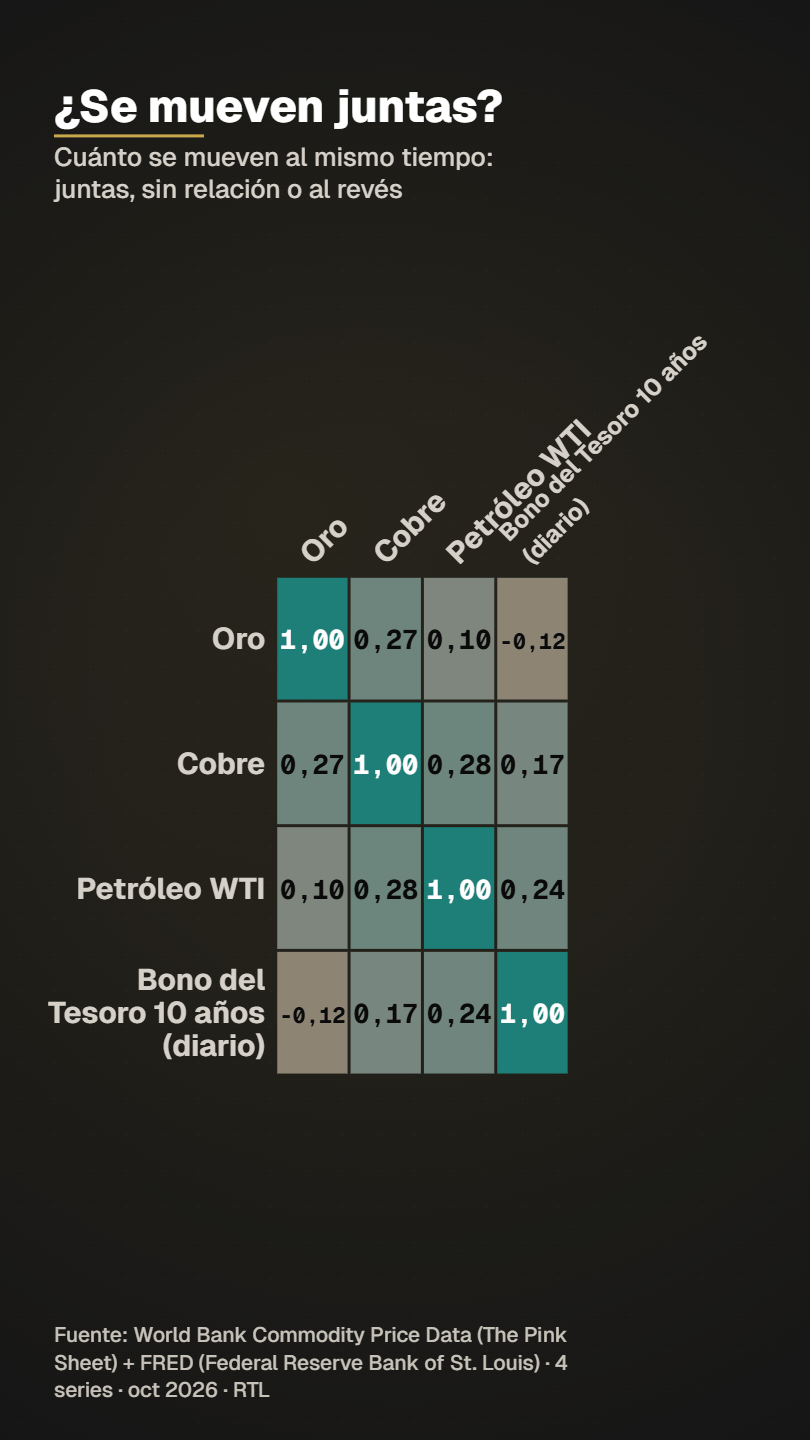
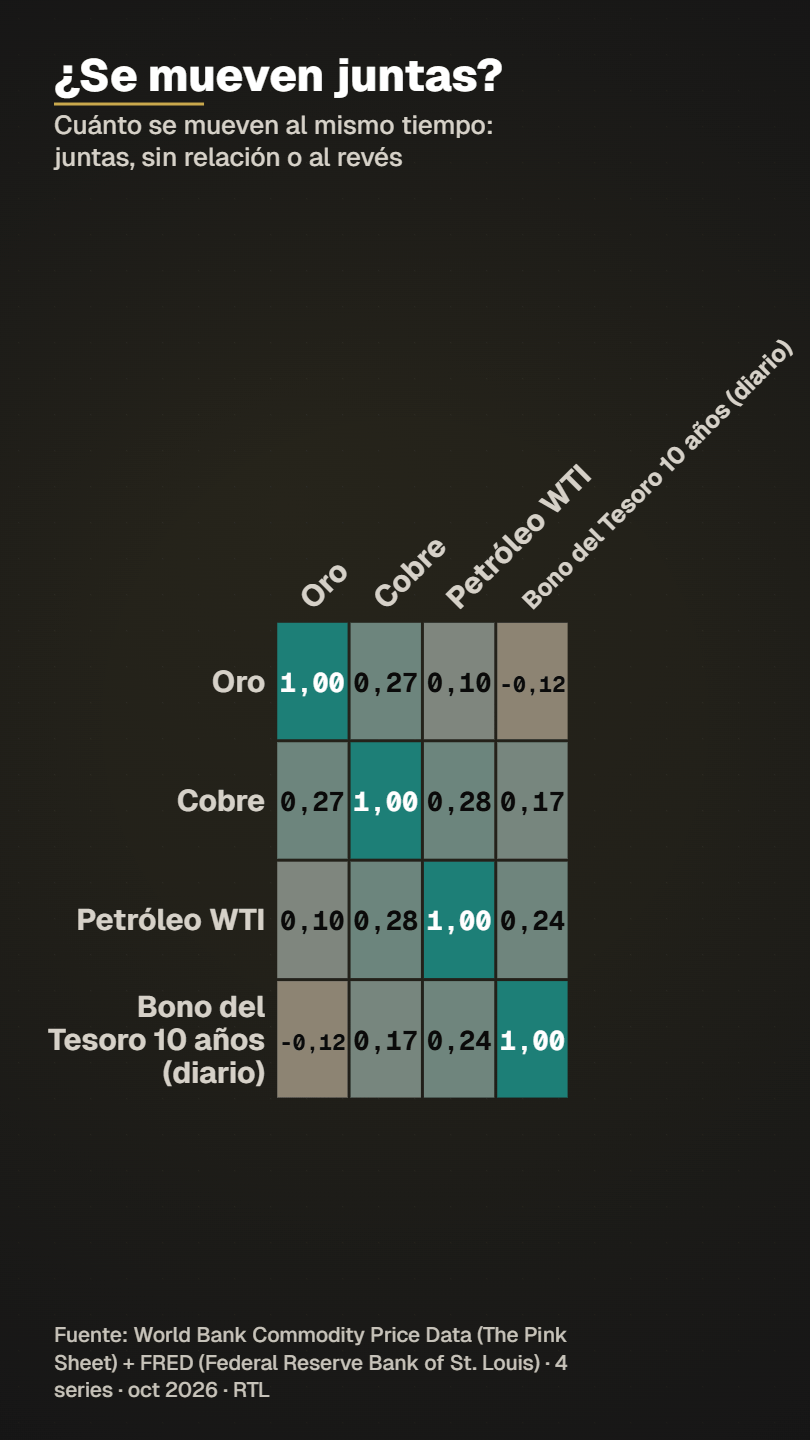
Charts: transposed vertical calendar with numbers, bars-by-decade template, legend/radar/bullet/correlation fixes

diff --git a/motor/capas_extra.js b/motor/capas_extra.js
@@ -122,7 +122,7 @@ function radar(env, capa) {
   const {ctx, u, t, H, W} = env, tab = env.tablas[capa.datos], vert = H > W;
   const B = cajaDef(env, capa), [t0, t1] = capa.t ?? [0.5, 5], ap = aparece(env, capa, t0); if (ap <= 0) return;
   const L = (capa._rd ??= ejesRadar(capa, tab)), N = L.ejes.length;
-  const wLab = B.w * 0.21, lh = tam(env, 26) * 1.18, fila = tam(env, 26) * 1.5, hLista = vert ? N * fila + 18 * u : 0;   // vertical: los rótulos van en una lista numerada debajo (los laterales no caben en la zona segura)
+  const wLab = B.w * 0.21, lh = tam(env, 26) * 1.18, fila = tam(env, 26) * 1.5, rrL = tam(env, 18) * 0.62, LNr = vert ? (capa._rn ??= L.ejes.map((e) => nombreEnLineas(env, e.nombre, B.w - 2 * rrL - med(env, fN(e.v, e.fmt), 26, 800, true) - 40 * u, 26, 700, 2))) : [], offY = LNr.map((_, i) => LNr.slice(0, i).reduce((a, l) => a + (l.length - 1) * tam(env, 26) * 1.1, 0)), hLista = vert ? N * fila + (offY.length ? offY[N - 1] + (LNr[N - 1].length - 1) * tam(env, 26) * 1.1 : 0) + 18 * u : 0;   // vertical: los rótulos van en una lista numerada debajo (los laterales no caben en la zona segura)
   const R = vert ? Math.min(B.w / 2 - 44 * u, (B.h - hLista - 190 * u) / 2) : Math.min(B.w / 2 - wLab, B.h / 2 - lh * 3.3), cx = B.x + B.w / 2, cy = vert ? B.y + 54 * u + R : B.y + B.h / 2, p = prog(t, t0, t1, ease.io2);
   const ang = (i) => -Math.PI / 2 + (i * 2 * Math.PI) / N;
   nota(env, B, capa.nota ?? (L.tabla ? `ESCALA COMÚN DE TODOS LOS EJES: DE 0 A ${fN(L.esc, L.fmt)}.${L.conAnt ? ' LÍNEA PUNTEADA: VALOR ANTERIOR.' : ''}` : 'CADA EJE VA DE 0 (MÍNIMO HISTÓRICO DE ESA SERIE) A 100 (SU MÁXIMO HISTÓRICO). EL PUNTO ES LA ÚLTIMA OBSERVACIÓN.'), capa.id ?? 'radar', ap);
@@ -150,13 +150,13 @@ function radar(env, capa) {
   L.ejes.forEach((e, i) => { const r = R * clamp(e.frac) * ease.out3(p); ctx.fillStyle = acento; ctx.beginPath(); ctx.arc(cx + r * Math.cos(ang(i)), cy + r * Math.sin(ang(i)), 8 * u, 0, 7); ctx.fill(); });
   // rótulos: nombre (hasta 2 líneas) y valor, hacia afuera de cada eje (en vertical: número en la punta y lista debajo)
   if (vert) L.ejes.forEach((e, i) => {
-    const a = ang(i), g = ent(env, t0 + 0.4, i, N), qx = cx + (R + 34 * u) * Math.cos(a), qy = cy + (R + 34 * u) * Math.sin(a), rr = tam(env, 18) * 0.62, y = cy + R + 118 * u + i * fila;
+    const a = ang(i), g = ent(env, t0 + 0.4, i, N), qx = cx + (R + 34 * u) * Math.cos(a), qy = cy + (R + 34 * u) * Math.sin(a), rr = tam(env, 18) * 0.62, y = cy + R + 118 * u + i * fila + offY[i];
     ctx.save(); ctx.globalAlpha *= g; ctx.fillStyle = acento;
     [[qx, qy], [B.x + rr, y - tam(env, 26) * 0.3]].forEach(([x, yy]) => { ctx.beginPath(); ctx.arc(x, yy, rr, 0, 7); ctx.fill(); }); ctx.restore();
     rot(env, String(i + 1), qx, qy + tam(env, 18) * 0.32, 18, 800, PALETA.fondo, 'center', `${capa.id ?? 'radar'}:p${i}`, {mono: true, alpha: g, halo: false});
     rot(env, String(i + 1), B.x + rr, y - tam(env, 26) * 0.3 + tam(env, 18) * 0.32, 18, 800, PALETA.fondo, 'center', `${capa.id ?? 'radar'}:q${i}`, {mono: true, alpha: g, halo: false, reg: false});
     const vt = fN(e.v, e.fmt), wv = med(env, vt, 26, 800, true);
-    rot(env, cortarA(env, e.nombre, B.w - 2 * rr - wv - 40 * u, 26, 700), B.x + 2 * rr + 14 * u, y, 26, 700, PALETA.blanco, 'left', `${capa.id ?? 'radar'}:n${i}`, {alpha: g});
+    LNr[i].forEach((ln, q) => rot(env, ln, B.x + 2 * rr + 14 * u, y + q * tam(env, 26) * 1.1, 26, 700, PALETA.blanco, 'left', `${capa.id ?? 'radar'}:n${i}${q ? ':' + q : ''}`, {alpha: g}));
     rot(env, vt, B.x + B.w, y, 26, 800, acento, 'right', `${capa.id ?? 'radar'}:v${i}`, {mono: true, alpha: g});
   });
   else L.ejes.forEach((e, i) => {
@@ -378,7 +378,24 @@ function calendario(env, capa) {
   const leyH = S * 3.4, wA = med(env, '2000', 18, 700, true) + 14 * u;
   ctx.save(); ctx.globalAlpha *= ap;
   let aviso = '';
-  if (!diario) {
+  if (!diario && vert) {   // VERTICAL: meses en filas y años en columnas, con la cifra en cada casilla (cuántos años caben lo decide el ancho de «−12,3»)
+    const wM = med(env, 'sep', 18, 700, true) + 18 * u, numW = med(env, '−12,3', 18, 700, true) + 10 * u, nAn = Math.max(3, Math.min(12, Math.floor((B.w - wM) / numW))), anios = L.anios.slice(-nAn);
+    if (anios.length < L.anios.length) aviso = ` MOSTRANDO LOS ÚLTIMOS ${anios.length} AÑOS DE ${L.anios.length}.`;
+    const x0 = B.x + wM, cw = (B.w - wM) / anios.length, y0 = B.y + S * 1.6, filaH = Math.min(S * 2.8, (B.h - leyH - S * 2) / 12);
+    nota(env, B, capa.nota ?? `CADA CASILLA ES EL RETORNO DE ESE MES: ÚLTIMO CIERRE DEL MES ÷ ÚLTIMO CIERRE DEL MES ANTERIOR − 1, EN %. COLOR PLENO A ±${fN(lim, {decimales: lim < 10 ? 1 : 0})} %; MÁS ALLÁ SE SATURA.${aviso}${L.rets.get(L.ult)?.parcial ? ' EL ÚLTIMO MES ESTÁ INCOMPLETO.' : ''}`, capa.id ?? 'calendario', ap);
+    anios.forEach((an, c) => rot(env, String(an), x0 + cw * (c + 0.5), B.y + S * 1.1, 18, 700, PALETA.piedraClara, 'center', `${capa.id ?? 'calendario'}:a${an}`, {mono: true, tipo: 'eje-x'}));
+    for (let m = 0; m < 12; m++) {
+      const y = y0 + m * filaH, g = ent(env, t0 + 0.2, m, 12); rot(env, MES3[m], B.x + wM - 12 * u, y + filaH * 0.64, 18, 600, PALETA.piedraOscura, 'right', `${capa.id ?? 'calendario'}:m${m}`, {mono: true, tipo: 'eje-y', alpha: g});
+      anios.forEach((an, c) => {
+        const q = L.rets.get(an * 12 + m), g2 = clamp(p * 1.6 - (c * 12 + m) / (anios.length * 12) * 0.6); if (g2 <= 0) return;
+        ctx.globalAlpha = ap * g2; ctx.fillStyle = q ? colorRet(q.r, lim) : rgba(PALETA.tarjeta, 0.5); ctx.fillRect(x0 + c * cw + 1.5 * u, y + 1.5 * u, cw - 3 * u, filaH - 3 * u);
+        if (q && q.parcial) { ctx.strokeStyle = PALETA.blanco; ctx.setLineDash([5 * u, 4 * u]); ctx.lineWidth = 2 * u; ctx.strokeRect(x0 + c * cw + 2 * u, y + 2 * u, cw - 4 * u, filaH - 4 * u); ctx.setLineDash([]); }
+        ctx.globalAlpha = ap;
+        if (q) rot(env, fN(q.r, {decimales: 1}).replace('-', '−'), x0 + (c + 0.5) * cw, y + filaH * 0.66, 18, 700, tintaSobre(colorRet(q.r, lim)), 'center', `${capa.id ?? 'calendario'}:c${an}-${m}`, {mono: true, alpha: g2, halo: false});
+      });
+    }
+    leyenda(env, B, capa, lim, B.y + B.h - leyH * 0.6, ap);
+  } else if (!diario) {
     const filaH = Math.max(S * 1.5, Math.min(S * 2.2, (B.h - leyH - S * 2) / Math.max(1, L.anios.length))), cap = Math.max(3, Math.floor((B.h - leyH - S * 2) / filaH)), anios = L.anios.slice(-cap);
     if (anios.length < L.anios.length) aviso = ` MOSTRANDO LOS ÚLTIMOS ${anios.length} AÑOS DE ${L.anios.length}.`;
     const x0 = B.x + wA, cw = (B.w - wA) / 12, y0 = B.y + S * 1.6, mostrarNum = med(env, '−12,3', 18, 700, true) < cw - 6 * u;
@@ -466,11 +483,11 @@ function bullet(env, capa) {
   const {ctx, u, t, H, W} = env, tab = env.tablas[capa.datos], vert = H > W;
   const B = cajaDef(env, capa), [t0, t1] = capa.t ?? [0.5, 5], ap = aparece(env, capa, t0); if (ap <= 0) return;
   const L = (capa._bl ??= armarBullet(capa, tab)), n = L.length, S = tam(env, 18), N = tam(env, 26), p = prog(t, t0, t1, ease.io2);
-  const lhB = tam(env, 26) * 1.12, LNB = (capa._bn ??= L.map((r) => nombreEnLineas(env, r.nombre, B.w - med(env, fN(r.v, r.fmt), 28, 800, true) - 20 * u, 26, 700, 2))), extB = Math.max(...LNB.map((l) => l.length)) - 1, fila = Math.min((B.h - S * 0.5) / n, N * 7 + extB * lhB), bh = Math.max(26 * u, N * 1.0);
+  const lhB = tam(env, 26) * 1.12, LNB = (capa._bn ??= L.map((r) => nombreEnLineas(env, r.nombre, B.w - med(env, fN(r.v, r.fmt), 28, 800, true) - 20 * u, 26, 700, 2))), extB = Math.max(...LNB.map((l) => l.length)) - 1, fila = Math.min((B.h - S * 0.5) / n, N * 7 + extB * lhB), oy = vert ? Math.max(0, (B.h - S * 0.5 - fila * n) / 2) : 0, bh = Math.max(26 * u, N * 1.0);   // vertical: el bloque de medidores se centra en su caja en vez de pegarse arriba
   nota(env, B, capa.nota ?? 'BARRA: ÚLTIMO DATO. FONDO: HISTORIA DE LA SERIE EN TRES TRAMOS (MÍNIMO–P25, P25–P75, P75–MÁXIMO). RAYA BLANCA: LA META. LA ESCALA ARRANCA EN 0.', capa.id ?? 'bullet', ap);
   ctx.save(); ctx.globalAlpha *= ap;
   L.forEach((r, i) => {
-    const y = B.y + i * fila, g = clamp(p * (n + 1) - i * 0.7), e = ease.out3(g); if (g <= 0) return;
+    const y = B.y + oy + i * fila, g = clamp(p * (n + 1) - i * 0.7), e = ease.out3(g); if (g <= 0) return;
     const lo = Math.min(0, r.min), hi = Math.max(r.max, r.v, r.meta), px = (v) => B.x + ((v - lo) / (hi - lo)) * B.w, yb = y + N * 1.5 + (LNB[i].length - 1) * lhB, c = acento_(capa);
     const vTxt = fN(r.v, r.fmt), wv = med(env, vTxt, 28, 800, true);
     LNB[i].forEach((ln, k) => rot(env, ln, B.x, y + N * 0.95 + k * lhB, 26, 700, PALETA.blanco, 'left', `${capa.id ?? 'bullet'}:n${i}:${k}`, {alpha: g}));

diff --git a/motor/capas.js b/motor/capas.js
@@ -303,6 +303,10 @@ function barras(env, capa) {
   const horiz = capa.orientacion ? capa.orientacion === 'h' : (vert && n > 3);   // en vertical (celular) las barras van acostadas: los nombres se leen enteros
   let orden = [...Array(n).keys()];
   if (capa.orden === 'desc') orden.sort((a, b) => (tab.series[idxs[0]].y[b] ?? -Infinity) - (tab.series[idxs[0]].y[a] ?? -Infinity));
+  if (capa.cadaAnios && tab.tipoX === 'fecha') {   // una barra por década (o cada N años): solo filas REALES cuyo año es múltiplo de N, más la primera y el último dato (nada se interpola)
+    const an = (k) => +fmtFecha(tab.x[k], 'anio'), N = capa.cadaAnios;
+    orden = orden.filter((k) => an(k) % N === 0 || k === 0 || k === n - 1);
+  }
   if (capa.maxBarras) orden = orden.slice(0, capa.maxBarras);
   let lo = 0, hi = -Infinity;
   for (const i of idxs) for (const k of orden) { const v = tab.series[i].y[k]; if (v != null) { lo = Math.min(lo, v); hi = Math.max(hi, v); } }
@@ -469,7 +473,7 @@ function calor(env, capa) {
   const ap = aparece(env, capa, t0); if (ap <= 0) return;
   const m = M.etiquetas.length, vert = env.H > env.W;
   ctx.font = fnt(700, 22 * u); const LW = Math.min(B.w * (vert ? 0.44 : 0.36), Math.max(...M.etiquetas.map((e) => ctx.measureText(e).width)) + 24 * u);
-  const cabeza = (vert ? 250 : 120) * u, side = Math.min(B.w - LW, B.h - cabeza) * 0.98, c = side / m, ch = vert ? Math.min(c * 1.7, (B.h - cabeza) * 0.98 / m) : c;   // en vertical las casillas son más altas que anchas: llenan el lienzo
+  const cabeza = (vert ? 310 : 120) * u, side = Math.min(B.w - LW, B.h - cabeza) * 0.98, c = side / m, ch = vert ? Math.min(c * 1.7, (B.h - cabeza) * 0.98 / m) : c;   // en vertical las casillas son más altas que anchas: llenan el lienzo
   const ox = B.x + LW, oy = B.y + cabeza;
   const col = (v) => colorDivergente(clamp(v, -1, 1));   // BrBG vendorizado (motor/escalas.js): el cero ya no se confunde con el fondo y distingue negativo/positivo un daltónico
   ctx.save(); ctx.globalAlpha = ap;
@@ -1046,14 +1050,15 @@ function filaLeyenda(env, capa, f, x, y, rh, lw, la, idBase) {
   ctx.save(); ctx.globalAlpha *= la;
   ctx.fillStyle = f.col; ctx.beginPath(); ctx.arc(x + 12 * u, y + rh * 0.36, 9 * u, 0, 7); ctx.fill();
   ctx.font = fP; const wP = ctx.measureText(pctTxt(f.pct)).width;
-  ctx.font = fN; const nombre = cortar(ctx, f.nombre, lw - 44 * u - wP - 16 * u), wN = ctx.measureText(nombre).width;
+  ctx.font = fN; const bajoP = ctx.measureText(f.nombre).width > lw - 44 * u - wP - 16 * u && ctx.measureText(f.nombre).width <= lw - 44 * u, yP = bajoP ? 0.84 : 0.5;   // nombre largo: el % baja a la fila de la cifra y el nombre usa todo el ancho (nunca «…» si así cabe)
+  const nombre = cortar(ctx, f.nombre, bajoP ? lw - 44 * u : lw - 44 * u - wP - 16 * u), wN = ctx.measureText(nombre).width;
   rotulo(ctx, nombre, x + 36 * u, y + rh * 0.43, fN, PALETA.blanco, 'left', u);
   rotulo(ctx, fmtNum(f.valor, idBase.fmt), x + 36 * u, y + rh * 0.84, fV, PALETA.piedraClara, 'left', u);
-  rotulo(ctx, pctTxt(f.pct), x + lw, y + rh * 0.5, fP, f.col, 'right', u);
+  rotulo(ctx, pctTxt(f.pct), x + lw, y + rh * yP, fP, f.col, 'right', u);
   ctx.font = fV; const wV = ctx.measureText(fmtNum(f.valor, idBase.fmt)).width;
   reg(env, 'etiqueta', [x + 36 * u, y + rh * 0.43 - 34 * u, x + 36 * u + wN, y + rh * 0.43 + 8 * u], `${capa.id ?? idBase.id}:n:${f.nombre}`);
   reg(env, 'etiqueta', [x + 36 * u, y + rh * 0.84 - 26 * u, x + 36 * u + wV, y + rh * 0.84 + 6 * u], `${capa.id ?? idBase.id}:v:${f.nombre}`);
-  reg(env, 'etiqueta', [x + lw - wP, y + rh * 0.5 - 34 * u, x + lw, y + rh * 0.5 + 8 * u], `${capa.id ?? idBase.id}:p:${f.nombre}`);
+  reg(env, 'etiqueta', [x + lw - wP, y + rh * yP - 34 * u, x + lw, y + rh * yP + 8 * u], `${capa.id ?? idBase.id}:p:${f.nombre}`);
   ctx.restore();
 }
 

diff --git a/CLAUDE.md b/CLAUDE.md
@@ -18,6 +18,8 @@ Herramienta local para animar gráficas de datos. Lee `servidor/guia-de-direccio
 
 ## Aprendizajes
 
+- **2026-11-05 — Segunda pasada visual (subtítulos, Sankey, calendario vertical, barras por década):** (1) un subtítulo que se corta con «…» se arregla envolviéndolo por palabras, pero entonces el bloque de título crece y pisa al contador/gráfica: en vertical el bloque SUBE lo que crece (`dy` en `cajaTitulo`), no se baja el contador (eso chocaba con la nota de unidad de la gráfica); (2) `fnt()`/`escalarFuente` SUBE cualquier tamaño al piso del formato, así que «achicar la fuente hasta que quepa» no funciona en vertical: la salida es envolver, bajar un elemento a otra fila (el % de la leyenda baja a la fila de la cifra) o ampliar la caja; (3) un rótulo que SIEMPRE cae sobre datos (nodos centrales del Sankey, ÚLTIMO del histograma) se resuelve con una placa del color del fondo detrás, no moviéndolo; (4) `prueba-calidad` clasificaba como «nombre» (piso 40 px) cualquier línea corta sin cifras, incluidas las líneas del subtítulo: ahora lo del bloque de título (27 % superior en vertical) cuenta como subtítulo; (5) el calendario vertical sin cifras se arregló TRASPONIENDO (meses en filas, años en columnas, los que quepan con «−12,3»). Serie anual con tendencia: `barras_decada` (solo filas reales, sin interpolar). GOTCHA de entorno: los scripts Python escritos con heredoc y `
+` dentro de cadenas JS dejan saltos de línea reales; editar archivos con la herramienta Edit. **Por qué importa:** cada arreglo de texto desplaza otra cosa; verificar siempre con `prueba-calidad` y mirando el fotograma vertical completo. Diario: `docs/diagnosticos/2026-11-05-noche.md`.
 - **2026-11-05 — Pase visual nocturno (hojas de contactos + capas `capas.js`/`capas_extra.js`):** mirar la galería en HOJAS (`python scripts/hoja-contactos.py`) caza lo que los tests no ven: nombres con «…» en vertical, filas que ocupan el 60 % del alto, barras más cerca de la etiqueta de la fila siguiente que de la suya. Arreglos: `nombreEnLineas` (2-3 líneas, nunca «…») en cascada/pictograma/bullet, filas con alto variable en la cascada vertical, `holg` (más aire con ≤6 filas) en dumbbell, `fila` proporcional al lienzo en carrera, ranking con filas según alto disponible. GOTCHA: `escalarFuente` sube el piso en vertical, así que una 2.ª línea mide ~52 px, no 29; y regenerar la galería re-descarga datos (revertir `examples/*/data.csv` si solo cambia la fecha). **Por qué importa:** un truncado con «…» o un hueco grande es un defecto que ninguna prueba de colisión detecta. Diario: `docs/diagnosticos/2026-11-05-noche.md`.
 - **2026-11-04 — Ampliación de datos (4.480 series; `servidor/ampliacion.mjs` + `servidor/fuentes_extra.mjs` + `data/`):** las fuentes abiertas mienten en detalles que solo se ven contrastando con una consulta independiente (`node scripts/prueba-datos-nuevos.mjs --doc` → `docs/data-verification.md`). GOTCHAS: (1) Grecia es `EL` en Eurostat y un `geo` desconocido NO da error: devuelve muchos países (el adaptador lo rechaza); (2) el IPCA de la zona euro (`EA`/`EA20`) termina en 2025-12; (3) FiscalData publica DOS filas con el mismo `record_date` cuando corrige una tasa de cambio a mitad de trimestre → la fecha de la serie es `effective_date`; (4) NOAA marca los meses interpolados con `sdev` negativa y en la era Scripps (1958–1974) no distingue medido de interpolado → se omite todo; (5) la ANH escribe barriles como texto con comas de miles (`"25,866.00"`): se suma en centésimas enteras; (6) los códigos de FRED no son los del BLS (`USCONS` = `CES2000000001`) y un id inexistente devuelve HTML. **Por qué importa:** cada fuente nueva necesita su prueba contra la fuente oficial por otro camino; una serie que baja "sin error" no está verificada.
 - **2026-11-04 — Licencias: «CC BY 4.0 del Banco Mundial» no cubre todo WDI, y la instantánea `data/` solo lleva lo redistribuible:** muchos indicadores WDI republican datos del FMI (IFS), IEA, OMS, UNESCO, UIT, OMC o la Federación Mundial de Bolsas con términos propios, y la API no expone licencia por indicador. `scripts/actualizar-instantanea.mjs` deja fuera los de esas fuentes primarias (mira la PRIMERA organización de `sourceOrganization`), el FMI, Yahoo, Coin Metrics (NC), CC BY-SA (TRM, ANH) y FRED de editores privados, y lo registra en `data/MANIFEST.json`. `servidor/datos.mjs` cae a `data/<id>.csv` si falta `datos/biblioteca/<id>.csv` (procedencia desde el manifiesto; un archivo propio con el mismo nombre NO la hereda). **Por qué importa:** los ejemplos con Bitcoin (Coin Metrics) o deuda del FMI no corren desde la instantánea por licencia, no por descuido.

diff --git a/docs/diagnosticos/2026-11-05-noche.md b/docs/diagnosticos/2026-11-05-noche.md
@@ -27,3 +27,5 @@ y comparando con las referencias de `docs/STYLE_REFERENCES.md`. Cada arreglo se 
 - Rechazado/pendiente: Sankey horizontal (etiquetas sobre cintas) y traducción SEC: requieren más trabajo; ver tabla.
 
 - Commit 2 (segunda pasada): Sankey horizontal (placa del color del fondo tras los rótulos de nodos centrales: ya no se pierden sobre las cintas), correlación vertical (casillas más altas, rótulos en 3 líneas, encabezado inclinado en 2 líneas), subtítulo de TODAS las piezas envuelto por palabras (2-3 líneas) en vez de «…» (el bloque de título sube y el contador no se pisa), lollipop horizontal (nombre a la izquierda y palo a la derecha en una fila: fuentes completas), pendiente (nombres en 2-3 líneas, más alto/ancho), histograma/retornos (la raya de la mediana ya no cruza el rótulo ÚLTIMO). Auditor: las líneas del subtítulo (rol «sub» 34 px) ya no se cuentan como nombres. Imágenes antes/después: `docs/gallery/before/n2-*.png`. Panel: ya llenaba bien el lienzo, sin cambio.
+
+- Commit 3: calendario vertical transpuesto (meses en filas, años en columnas) con la cifra en cada casilla; `barras_decada` (barras por década para series anuales con tendencia, p. ej. urbanización de Colombia; regla del visualizador + plantilla + caso de galería + prueba); leyendas de donut/waffle (el % baja a la fila de la cifra cuando el nombre es largo: «Tecnología e infraestructura» ya no se corta); radar vertical (nombres de la lista en 2 líneas); bullet vertical (bloque centrado, sin pegarse a la nota); correlación vertical (encabezado inclinado en 1 línea, sin pisarse). Pendiente: «Sales, general and administrative» (rótulo SEC en inglés) sigue cortado en la leyenda del waffle: se resuelve con el diccionario en español (fuera de alcance, versión en inglés el domingo).

diff --git a/docs/ARCHITECTURE.md b/docs/ARCHITECTURE.md
@@ -69,6 +69,11 @@ Headless Edge/Chrome (via `playwright-core`) loads `web/render.html`, seeks fram
 | MCP server | `servidor/mcp.mjs` (`.mcp.json`) | Lets Claude search series, generate pieces, preview frames, export; includes `proponer_visualizaciones` |
 | Chat | `servidor/chat.mjs` | "Edit by talking" panel in the studio; uses your local Claude Code |
 
+## Text fitting rules (never «…» unless one word cannot fit)
+- Titles, subtitles and names are wrapped **by whole words** (`envolverEntero` in `motor/etiquetas.js`, `envolver` in `motor/diseno.js` as last resort). The title block grows (and moves up in vertical) when the subtitle takes 2–3 lines, so the year counter and the chart never collide.
+- Labels that must sit over ribbons or bars (Sankey central nodes, histogram ÚLTIMO) get a background plate of the canvas colour instead of being moved off the data.
+- `scripts/prueba-calidad.mjs` treats the lines drawn in the title block (top 27 % in vertical) as subtitle text (34 px), not as chart names (40 px).
+
 ## Directory map
 
 | Path | Purpose |

diff --git a/README.md b/README.md
@@ -30,7 +30,7 @@ Real data, real frames (final frame of each animation). Vertical versions follow
 | <img src="docs/gallery/radar-pais-v.png" width="180"> | <img src="docs/gallery/comparar-v.png" width="180"> | <img src="docs/gallery/ranking-v.png" width="180"> | <img src="docs/gallery/waffle-v.png" width="180"> | <img src="docs/gallery/lollipop-v.png" width="180"> |
 |:--:|:--:|:--:|:--:|:--:|
 
-All 62 images (31 cases × horizontal/vertical): [`docs/gallery/`](docs/gallery/). Regenerate with `npm run gallery`.
+All 64 images (32 cases × horizontal/vertical): [`docs/gallery/`](docs/gallery/). Regenerate with `npm run gallery`.
 
 ---
 
